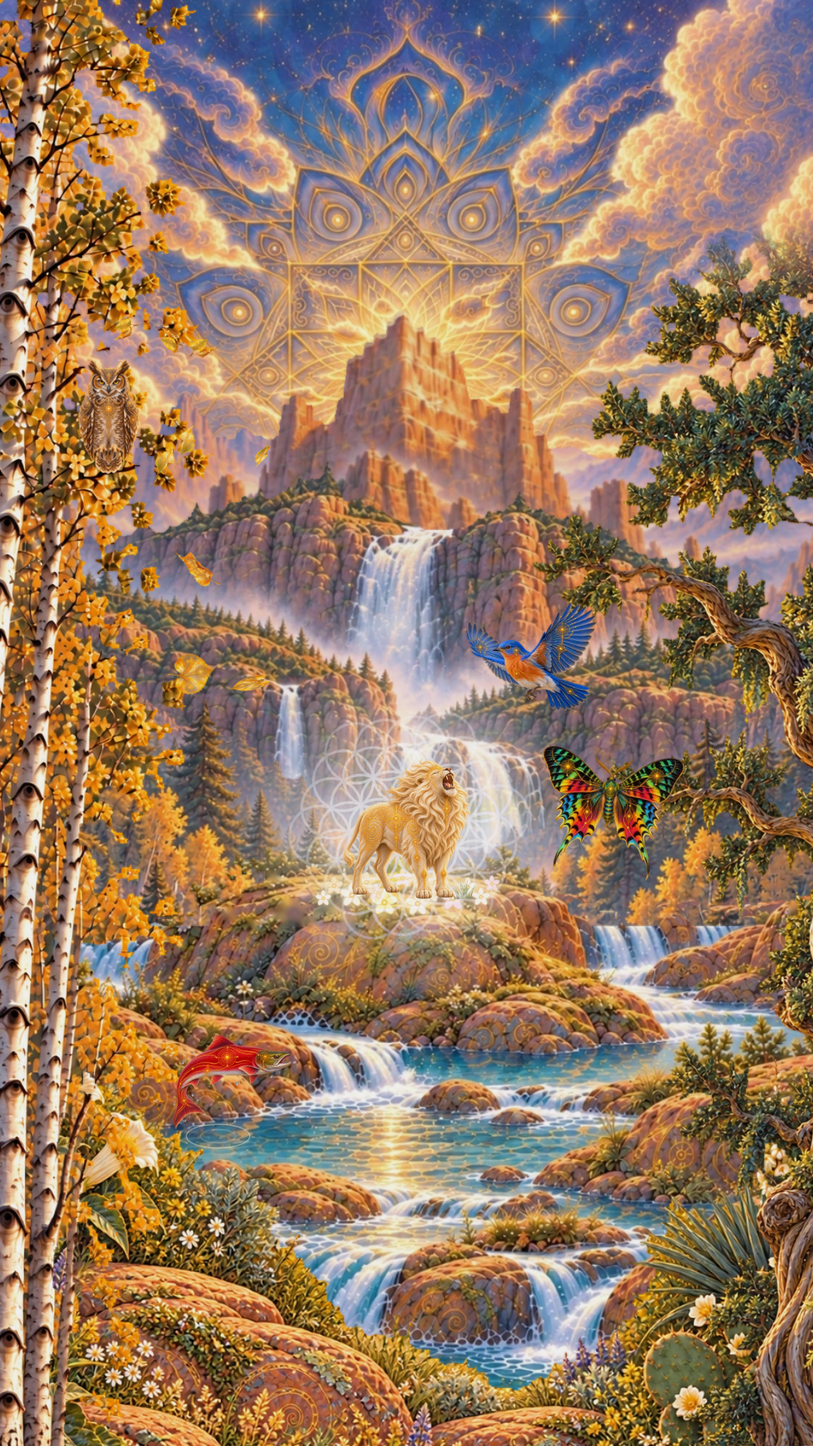
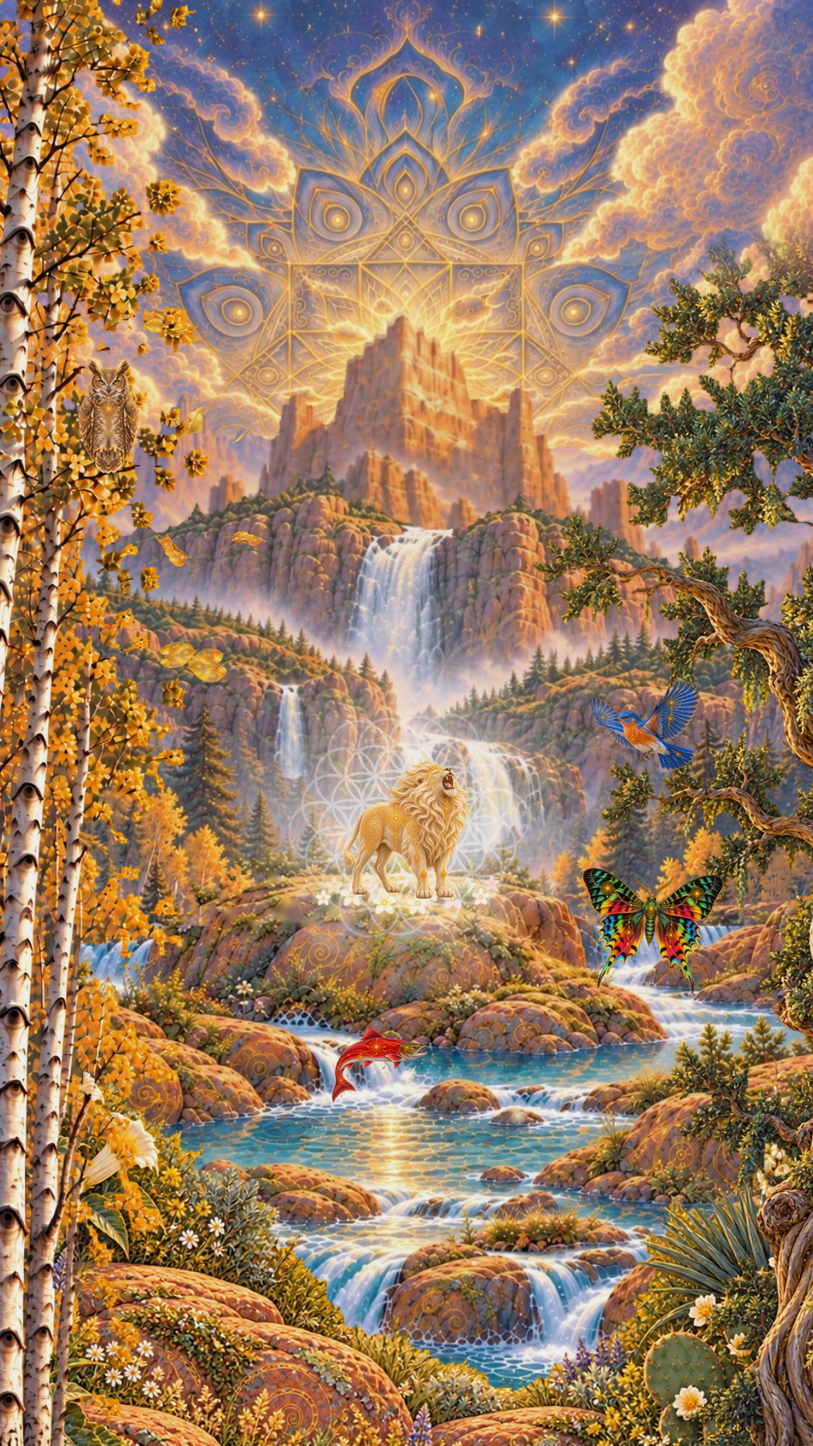
Salmon smaller (120) with a longer low leap across open water (~2 body lengths); the roar's bluebird and lolo flights slowed so the true 0.9 s frame matches the start-frame layout; salmon peaks at the hand-off; start frame re-rendered frame-exact (render script kept)
Claude-Session: https://claude.ai/code/session_01X5u2D9a4RRbbCvwnE6RQKF

diff --git a/frontend/src/components/site/journeyEngine.js b/frontend/src/components/site/journeyEngine.js
@@ -133,7 +133,10 @@ const BUTTERFLY_FLY_S = 9, HATCH_S = [1.3, 2.4];   // [unfolding, gliding down t
 const mothWander = (t) => ({ x: 440 + 55 * Math.sin(t * 0.55) + 16 * Math.sin(t * 1.7), y: 985 + 32 * Math.sin(t * 0.85), rot: 10 * Math.cos(t * 0.55),
   scale: 1 + 0.16 * Math.sin(t * 0.37 + 1) });   // drifting nearer and farther
 const MOTH_REST = [565, 914];
-const MOTH_ROAR_GROW = 0.6;   // the roar sends the lolo up toward the camera: this much bigger (the finale flies past it)   // on the rocks right of the river, mid-frame: at the finale frame the roar has lifted it beside the lion
+const MOTH_ROAR_GROW = 0.6;
+// The roar's scatter flights (bluebird, lolo) run at this speed, so at the finale's first frame (0.9 s in)
+// the bluebird is just above and right of the lion and the lolo just right of him, as in the start frame
+const ROAR_FLIGHT_K = 0.5;   // the roar sends the lolo up toward the camera: this much bigger (the finale flies past it)   // on the rocks right of the river, mid-frame: at the finale frame the roar has lifted it beside the lion
 const OWL_LOOK_MS = 600, OWL_HOLD_MS = 4200;
 // One beat at a time, on the world's clock (T, seconds since the world opened), every 15s: the near
 // flock crosses (every other beat).
@@ -142,13 +145,13 @@ const inBeat = (T, [a, b]) => { const s = ((T % BEAT_S) + BEAT_S) % BEAT_S; retu
 // The salmon (a totem): once every SALMON_EVERY_S, when the near flock isn't crossing, a glint on the
 // pool, then it leaps (rising, peak, diving poses) and is swallowed back under; tap it mid-leap to
 // catch it. It's drawn in a window whose bottom edge is the water's surface (river coordinates).
-const POOL = { x: 180, y: 610, w: 520, h: 270 },   /* its surface (y + h, river coordinates) lies in the open pool */ SALMON_AT = 12.5, SALMON_EVERY_S = 15,   /* leaps at 12.5s and 27.5s of each 30s: never while the near flock crosses (0-11s) */ SALMON_LEAP_S = 1.6;
-const SALMON_X = [34, 174], SALMON_DEPTH = 40, SALMON_RISE = 400, SALMON_W = 150;   // a low leap (60 above the surface): out of open water, back into open water
+const POOL = { x: 180, y: 606, w: 520, h: 270 },   /* its surface (y + h, river coordinates) lies in the open pool */ SALMON_AT = 12.5, SALMON_EVERY_S = 15,   /* leaps at 12.5s and 27.5s of each 30s: never while the near flock crosses (0-11s) */ SALMON_LEAP_S = 1.6;
+const SALMON_X = [106.8, 409.3], SALMON_DEPTH = 40, SALMON_RISE = 432, SALMON_W = 120;   /* a smaller fish (~110 long), a longer, low leap: out of the pool at x 318, over the rock, back in at 558 (~2 body lengths), peaking ~68 above the surface */   // a low leap (60 above the surface): out of open water, back into open water
 const SALMON_SURF_U = (1 - Math.sqrt(1 - 4 * SALMON_DEPTH / SALMON_RISE)) / 2;
 const salmonU = (T) => { const s = ((T % SALMON_EVERY_S) + SALMON_EVERY_S) % SALMON_EVERY_S; return (s - SALMON_AT) / SALMON_LEAP_S; };
 // the roar makes the salmon leap once on its own clock (c.roarAt), peaking at the finale's first frame
 const leapU = (c, t, T) => (c.roarAt ? (t - c.roarAt) / SALMON_LEAP_S : salmonU(T));
-const ROAR_LEAP_S = 1.35 - SALMON_LEAP_S / 2;   // leap starts this long after the roar: top of the arc at FINALE_AFTER_MS
+const ROAR_LEAP_S = 0.9 - SALMON_LEAP_S / 2;   // leap starts this long after the roar: top of the arc at the finale's first frame (FINALE_AFTER_MS)
 // the bison's abundance: flowers that bloom in the grass around its hooves when it's called
 // ([x %, y % of the ground ring, size, delay s, petal colour])
 const BLOOMS = [[0, 64, 1, .35, "#fff6e6"], [14, 26, .8, .5, "#ffe2a8"], [30, 84, 1.1, .2, "#fff6e6"], [46, 14, .75, .65, "#ffd9e4"],
@@ -205,12 +208,12 @@ const CREATURES = [
       if (u >= 1 || u < 0) c.returnAt = 0;
       else { const e = smooth(u); return { x: base.x + c.fromDx * (1 - e), y: base.y + c.fromDy * (1 - e), flying: true }; }
     }
-    const d = c.flyAt ? t - c.flyAt : -1;
+    const d = c.flyAt ? (t - c.flyAt) * (c.roarFly ? ROAR_FLIGHT_K : 1) : -1;   // (the roar's flight is slower: see ROAR_FLIGHT_K)
     if (d < 0 || d > BUTTERFLY_FLY_S) { c.flyAt = 0; c.roarFly = false; return { ...base, flying: !c.home }; }
     const e = smooth(d / 1.2) * smooth((BUTTERFLY_FLY_S - d) / 1.5);   // lifts off, loops wide, comes back down
     return { x: base.x + e * (-150 + 150 * Math.cos(d * 0.8) + 40 * Math.sin(d * 2.3)),
       y: base.y - e * (130 + 60 * Math.sin(d * 1.3)), rot: base.rot + e * 12 * Math.cos(d * 0.9), flying: true,
-      scale: base.scale * (1 + e * (c.roarFly ? MOTH_ROAR_GROW : 0.05 + 0.08 * Math.sin(d * 0.9 + 2.2))) };   // its loop swings toward the camera (the roar sends it right up close) and back
+      scale: base.scale * (c.roarFly ? 1 + MOTH_ROAR_GROW * smooth(d / 0.45) : 1 + e * (0.05 + 0.08 * Math.sin(d * 0.9 + 2.2))) };   // its loop swings toward the camera (the roar sends it right up close) and back
   } },
   ...LEAVES.map(([n, after, depth, w, x0, off, ph]) => ({ kind: "leaf", src: `trev-world-bleaf-${n}.webp`, after, depth, w,
     pose: (t, p) => ({
@@ -226,13 +229,13 @@ const CREATURES = [
       if (u >= 1 || u < 0) c.returnAt = 0;
       else { const e = smooth(u); return { x: PERCH.x + 430 * (1 - e), y: PERCH.y - 170 * (1 - e) - 40 * Math.sin(Math.PI * e), flying: true, face: -1, scale: 0.7 + 0.3 * e }; }
     }
-    const d = c.flyAt ? t - c.flyAt : -1;
+    const d = c.flyAt ? (t - c.flyAt) * (c.roarFly ? ROAR_FLIGHT_K : 1) : -1;   // (the roar's flight is slower: see ROAR_FLIGHT_K)
     if (d < 0) return { x: PERCH.x, y: PERCH.y, flying: false };
     if (d < 2.6) { const e = Math.pow(d / 2.6, 1.5);
       // depth: she banks toward the camera as she goes, growing, then pulls away into the sky
       return { x: PERCH.x - 760 * e, y: PERCH.y - 420 * e + 22 * Math.sin(d * 9) * (1 - e), flying: true, face: -1, scale: 1 + 0.35 * Math.sin(Math.PI * Math.min(1, e * 1.25)) }; }
     if (d < 18) return null;
-    if (d > 19) c.flyAt = 0;                              // back on its branch
+    if (d > 19) { c.flyAt = 0; c.roarFly = false; }       // back on its branch
     return { x: PERCH.x, y: PERCH.y, flying: false, op: Math.min(1, d - 18) };
   } },
   { kind: "owl", layer: "aspens", w: OWL.w, pose: () => ({ x: OWL.x, y: OWL.y }) },
@@ -552,7 +555,7 @@ export function mountJourney(root, { start = "hero", navigate } = {}) {
     // every looping animation in the world (wing beats, spinning auras, the falls) restarts with the
     // roar, so nothing on its own clock changes that frame
     try { world.getAnimations({ subtree: true }).forEach((an) => { an.currentTime = 0; }); } catch (e) { /* older browsers */ }
-    if (perch) { perch.returnAt = 0; perch.flyAt = now + 0.15; perch.el.classList.remove("is-on"); }
+    if (perch) { perch.returnAt = 0; perch.flyAt = now + 0.15; perch.roarFly = true; perch.el.classList.remove("is-on"); }
     if (butterfly && butterfly.emerged) { butterfly.returnAt = 0; butterfly.flyAt = now; butterfly.roarFly = true; butterfly.el.classList.remove("is-on"); }
     if (owl) { owl.classList.add("look"); later(() => owl.classList.add("open"), 450); }
     for (const c of CREATURES) if (c.kind === "salmon" || c.kind === "splash") { c.roarAt = now + ROAR_LEAP_S; c.burst = true; }
@@ -869,8 +872,8 @@ export function mountJourney(root, { start = "hero", navigate } = {}) {
     world.appendChild(sunsetEl);
     // the salmon's way home, drawn in canvas coordinates (pool -> cascades -> the falls)
     world.insertAdjacentHTML("beforeend", `<svg class="tj-homeward" viewBox="0 0 941 1672" aria-hidden="true">`
-      + `<path pathLength="1" d="M285 1302 C 330 1255 380 1190 392 1150 S 470 1060 530 1000 S 520 900 488 820 S 462 700 458 640 S 456 590 456 575"/>`
-      + `<path class="core" pathLength="1" d="M285 1302 C 330 1255 380 1190 392 1150 S 470 1060 530 1000 S 520 900 488 820 S 462 700 458 640 S 456 590 456 575"/></svg>`);
+      + `<path pathLength="1" d="M438 1300 C 425 1250 400 1190 392 1150 S 470 1060 530 1000 S 520 900 488 820 S 462 700 458 640 S 456 590 456 575"/>`
+      + `<path class="core" pathLength="1" d="M438 1300 C 425 1250 400 1190 392 1150 S 470 1060 530 1000 S 520 900 488 820 S 462 700 458 640 S 456 590 456 575"/></svg>`);
     homeward = world.lastChild;
     for (const c of CREATURES) if (c.top) { c.el = creatureEl(c); world.appendChild(c.el); }
     $(".tj-side").style.backgroundImage = `url(${A}w3-sky.webp)`;

diff --git a/prototype/source/finale/render-start-frame.js b/prototype/source/finale/render-start-frame.js
@@ -1,0 +1,34 @@
+// Frame-exact start frame: the page's clock (performance.now) stops at exactly AT_MS after the roar while the
+// browser keeps painting normally; CSS animations begun by the roar are set to the same moment.
+const { chromium } = require('/opt/node-tools/node_modules/playwright');
+const OUT = process.argv[2] || 'kf-exact.png', AT_MS = +(process.argv[3] || 900);
+(async () => {
+  const b = await chromium.launch({ executablePath: '/opt/pw-browsers/chromium', args: ['--use-gl=swiftshader', '--enable-unsafe-swiftshader'] });
+  const ctx = await b.newContext({ viewport: { width: 360, height: 640 }, isMobile: true, hasTouch: true, deviceScaleFactor: 3 });
+  await ctx.addInitScript(() => { const real = performance.now.bind(performance); window.__freeze = null; performance.now = () => window.__freeze ?? real(); window.__realNow = real; });
+  const p = await ctx.newPage(); p.on('pageerror', e => console.log('PAGEERR', e.message));
+  await p.goto('http://127.0.0.1:3020/about'); await p.waitForTimeout(300);
+  await p.evaluate(() => { sessionStorage.setItem('tj-totems', JSON.stringify(['bison','bluebird','butterfly','owl','salmon'])); sessionStorage.setItem('tj-awake', '1'); });
+  await p.reload(); await p.waitForTimeout(3500);
+  await p.addStyleTag({ content: `.tj-story,.tj-bubble,.tj-header,.tj-totems,.tj-progress,.tj-vignette,.tj-lionFocus,.tj-sound,.film-grain-frame,.tj-landing,.tj-awaken{display:none!important}` });
+  await p.evaluate(() => { document.querySelector('.tj-scroller').scrollTop = 2.36 * document.querySelector('.tj-svh').clientHeight; }); await p.waitForTimeout(5000);
+  const info = await p.evaluate((at) => new Promise(res => {
+    let roarT = null, roarAnims = [];
+    new MutationObserver((m, o) => { if (document.querySelector('.tj').classList.contains('roaring')) { o.disconnect(); roarT = window.__realNow(); roarAnims = document.getAnimations().filter(a => (a.currentTime || 0) < 60); } })
+      .observe(document.querySelector('.tj'), { attributes: true });
+    document.querySelector('.tj-lionTotem').click();
+    const tick = () => {
+      if (roarT != null && window.__realNow() - roarT >= at - 20) {
+        window.__freeze = roarT + at;                                      // the scene's clock stops here
+        document.getAnimations().forEach(a => a.pause()); roarAnims.forEach(a => { a.currentTime = at; });
+        const f = document.querySelector('.tj-cr-salmon .fish');
+        return setTimeout(() => res({ roarAnims: roarAnims.length, fish: f.style.transform }), 600);   // real frames paint the frozen moment
+      }
+      requestAnimationFrame(tick);
+    };
+    requestAnimationFrame(tick);
+  }), AT_MS);
+  console.log(JSON.stringify(info));
+  await p.screenshot({ path: OUT });
+  await b.close();
+})();
